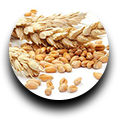
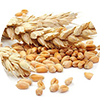
Jibarito left done. Pics are now without shadow

diff --git a/index.html b/index.html
@@ -171,26 +171,26 @@
                     </div>
                 </div>
             </div>
-            <div class="full-width">
+            <div class="full-width" id="jibarito">
                 <div id="jibarito-header">
                     <img src="img/jibarito-windmill.png" alt="jibarito windmill" />
                     <h1>The Jibarito sandwich</h1>
                     <h5>The best sandwich you've ever tasted</h5>
                 </div>
                 <div class="third-width" id="jibarito-left">
-                    (Wheat image)
+                    <img src="img/jibarito-left-1.png" alt="wheat for jibarito" />
                     <h2>Class aptent</h2>
                     <p>
                         Quot alienum persecuti ut eam, nam ad
                         atqui primis nusquam.
                     </p>
-                    (Egg image)
+                    <img src="img/jibarito-left-2.png" alt="egg for jibarito" />
                     <h2>Nulla eget</h2>
                     <p>
                         Nullam dictum felis eu pede mollis
                         pretium Integer tincidunt.
                     </p>
-                    (Cheese image)
+                    <img src="img/jibarito-left-3.png" alt="cheese for jibarito" />
                     <h2>Sed niph purus</h2>
                     <p>
                         Aenean eleifend tellus leo ligula,

diff --git a/css/main.css b/css/main.css
@@ -518,13 +518,13 @@ nav ul li {
 }
 
 #breakfast-left h5 {
-        font-size: 18px;
-        line-height: 18px;
-        font-weight: 700;
-        text-transform: uppercase;
-        color: #C8A593;
-        padding: 0px 0px 60px 0px;
-        margin: 0;
+    font-size: 18px;
+    line-height: 18px;
+    font-weight: 700;
+    text-transform: uppercase;
+    color: #C8A593;
+    padding: 0px 0px 60px 0px;
+    margin: 0;
 }
 
 #breakfast-left h2 {
@@ -655,6 +655,10 @@ nav ul li {
 
 /*** JIBARITO ***/
 
+#jibarito {
+    background-color: #F3F1E9;
+}
+
 #jibarito-header {
     position: relative;
     padding-top: 10px;
@@ -695,4 +699,36 @@ nav ul li {
     text-align: center;
     margin: auto;
     padding: 0;
+}
+
+#jibarito-left {
+    width: 300px;
+    text-align: center;
+}
+
+#jibarito-left h2 {
+    font-size: 30px;
+    line-height: 30px;
+    font-weight: 700;
+    color: #A47D5E;
+    margin: 0;
+    padding: 0;
+}
+
+#jibarito-left h2 {
+    font-size: 30px;
+    line-height: 30px;
+    font-weight: 700;
+    color: #A47D5E;
+    margin: 0;
+    padding: 20px 0px;
+}
+
+#jibarito-left p {
+    font-family: 'proximanova-regular', Georgia, serif;
+    font-size: 14px;
+    line-height: 20px;
+    color: #56534C;
+    margin: 0;
+    padding: 0px 0px 50px 0px;
 }
